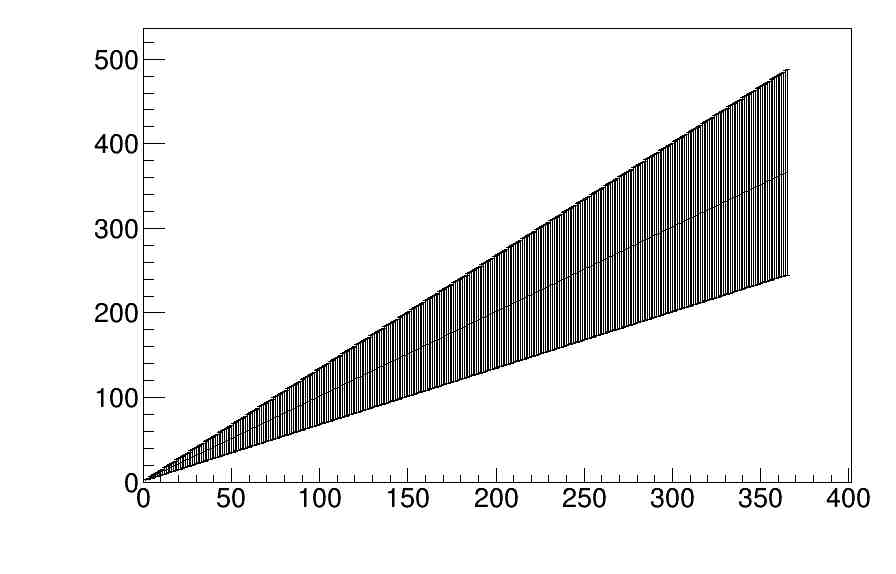
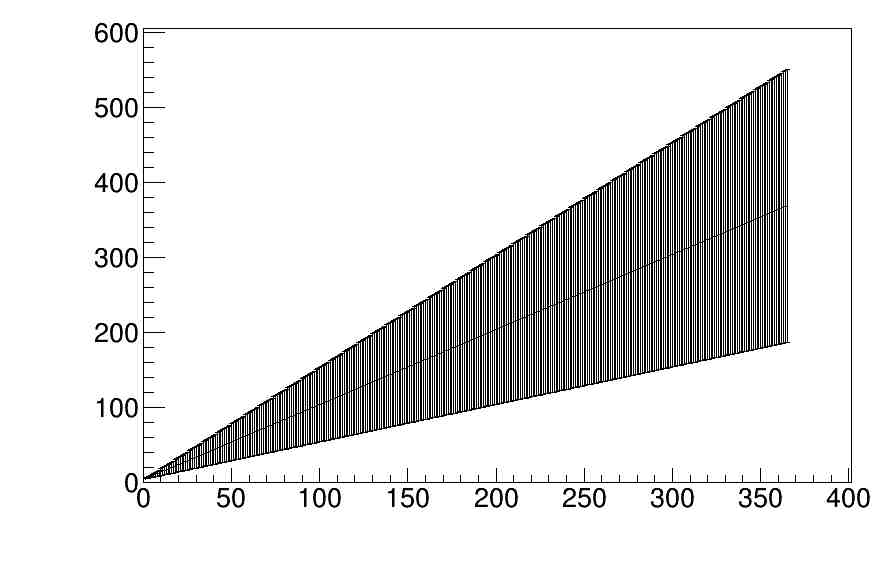
Redone LattDiff scrap idea of calling everyDay as i could not get it to work finaly works in a basic way

diff --git a/project/project.C b/project/project.C
@@ -8,38 +8,34 @@
 #include <vector>
 #include <TGraphErrors.h>
 
-Double_t * oneDay(string filePath, Int_t day, Int_t plot=1){
+Int_t n=365;
+Double_t outputMS[2];
+
+Double_t * oneDay(string filePath, Int_t day, Int_t plot=0){
 	
-	
-	
-	
-	
-	static Double_t result[2];
 	if (filePath == "test0"){
 		Double_t tday = (Double_t)day;
-		result[0]=tday+2.2;
-		result[1]=tday/3;
-		return result;
+		outputMS[0]=tday+2.2;
+		outputMS[1]=tday/3;
+		return outputMS;
 	}
-	if (filePath == "test1"){
+	else if (filePath == "test1"){
 		Double_t tday = (Double_t)day;
-		result[0]=-tday-2.2;
-		result[1]=tday/3;
-		return result;
+		outputMS[0]=-tday+8.2;
+		outputMS[1]=tday/3;
+		return outputMS;
 	}
-	if (filePath == "test2"){
+	else if (filePath == "test2"){
 		Double_t tday = (Double_t)day;
-		result[0]=tday+4.2;
-		result[1]=tday/2;
-		return result;
+		outputMS[0]=tday+4.2;
+		outputMS[1]=tday/2;
+		return outputMS;
 	}
 }
 
-Double_t * everyDay(string filePath="../clean_data/upsala_clean.dat", Int_t plot=1){
-	Int_t n=365;
+Double_t * everyDay(string filePath="../clean_data/upsala_clean.dat", Int_t plot=0){
 	Double_t *p;
 	Double_t daysMean[n],daysStaDev[n],days[n],zeros[n];
-	static Double_t store[365];
 	//vector<Double_t> daysMean;
 	//vector<Double_t> daysStaDev;
 	//vector<Int_t> days;
@@ -54,15 +50,16 @@ Double_t * everyDay(string filePath="../clean_data/upsala_clean.dat", Int_t plot
 		//daysStaDev.push_back(p[1]);
 		//days.push_back(i);
 		//zeros.push_back(0);
-		if (plot == 0){
-			store[i] = daysMean[i];
-			
+		/*
+		if (plot == 1){
+			outputBigM[i] = daysMean[i];
 		}
 		if (plot == 2){
-			store[i] = daysStaDev[i];
+			outputBigS[i] = daysStaDev[i];
 		}
+		*/
 	}
-	if (plot == 1){
+	if (plot == 0){
 		gStyle->SetOptStat(0);
 		gStyle->SetOptTitle(0);
 		gStyle->SetTitleSize(0.05, "x");
@@ -78,64 +75,81 @@ Double_t * everyDay(string filePath="../clean_data/upsala_clean.dat", Int_t plot
 		g1->Draw("AL");
 		c1->SaveAs("every_day_graph_one_location.jpg");
 	}
+	/*
 	if (plot == 0){
-		return store;
+		return outputBigM;
 	}	
+	if (plot == 2){
+		return outputBigS;
+	}
+	*/
 }
 
 
 void LattDiff(){
-	Int_t n=365;
 	Double_t days[365];
 	Double_t zeros[365];
 	/*
-	Double_t *lund, *visby, *upsala, *umea, *luleu;
-	lund = everyDay("../clean_data/lund_clean.dat",0);
-	visby = everyDay("../clean_data/visby_clean.dat",0);
-	upsala = everyDay("../clean_data/upsala_clean.dat",0);
-	umea = everyDay("../clean_data/umea_clean.dat",0);
-	luleu = everyDay("../clean_data/luleu_clean.dat",0);
-	Double_t lundM[n],lundS[n];
-	Double_t visbyM[n],visbyS[n];
-	Double_t upsalaM[n],upsalaS[n];
-	Double_t umeaM[n],umeaS[n];
-	Double_t luleuM[n],luleuS[n];
+	Double_t *lundM, *visbyM, *upsalaM, *umeaM, *luleuM;
+	lundM = everyDay("../clean_data/lund_clean.dat",0);
+	visbyM = everyDay("../clean_data/visby_clean.dat",0);
+	upsalaM = everyDay("../clean_data/upsala_clean.dat",0);
+	umeaM = everyDay("../clean_data/umea_clean.dat",0);
+	luleuM = everyDay("../clean_data/luleu_clean.dat",0);
+	
+	Double_t *lundS, *visbyS, *upsalaS, *umeaS, *luleuS;
+	lundS = everyDay("../clean_data/lund_clean.dat",0);
+	visbyS = everyDay("../clean_data/visby_clean.dat",0);
+	upsalaS = everyDay("../clean_data/upsala_clean.dat",0);
+	umeaS = everyDay("../clean_data/umea_clean.dat",0);
+	luleuS = everyDay("../clean_data/luleu_clean.dat",0);
+	
+	Double_t *test0M, *test0S, *test1M, *test1S, *test2M, *test2S;
+	test0M = everyDay("test0",1);
+	test0S = everyDay("test0",2);
+	test1M = everyDay("test1",1);
+	test1S = everyDay("test1",2);
+	test2M = everyDay("test2",1);
+	test2S = everyDay("test2",2);
 	*/
-	Double_t *test01, *test02, *test1, *test2;
-	test01 = everyDay("test0",0);
-	test02 = everyDay("test0",2);
-	test1 = everyDay("test1",0);
-	test2 = everyDay("test2",0);
-	Double_t test0M[365],test0S[365],test1M[n],test1S[n],test2M[n],test2S[n];
-	for (Int_t i=0; i < 364; i++){
+	Double_t *t0, *t1, *t2;
+	Double_t t0daysMean[n],t0daysStaDev[n],t1daysMean[n],t1daysStaDev[n];
+	for(Int_t i = 0; i < n; i++){
 		days[i]=i+1;
-		zeros[i]=0;		
-		
-		test0M[i] = test01[i];
-		test0S[i] = test02[i];
-		/*
-		test1M[i] = test1[0][i];
-		test1S[i] = test1[1][i];
-		test2M[i] = test2[0][i];
-		test2S[i] = test2[1][i];
-		
-		lundM[i] = lund[0][i];
-		lundS[i] = lund[1][i];
-		visbyM[i] = visby[0][i];
-		visbyS[i] = visby[1][i];
-		upsalaM[i] = upsala[0][i];
-		upsalaS[i] = upsala[1][i];
-		umeaM[i] = umea[0][i];
-		umeaS[i] = umea[1][i];
-		luleuM[i] = luleu[0][i];
-		luleuS[i] = luleu[1][i];
-		*/
+		zeros[i]=0;
+		t0 = oneDay("test0",i,0);
+		t0daysMean[i]=t0[0];
+		t0daysStaDev[i]=t0[1];
+		t1 = oneDay("test1",i,0);
+		t1daysMean[i]=t1[0];
+		t1daysStaDev[i]=t1[1];
 	}
-	//TCanvas* c2 = new TCanvas("c2", "every day graph multiple locations", 900, 600);
-	TGraphErrors* t0 = new TGraphErrors(n,days,test0M,zeros,test0S);
-	t0->Draw("AL");
-	//TGraphErrors* t1 = new TGraphErrors(n,days,test1M,zeros,test1S);
-	//t1->Draw("L");
+	
+	
+	
+	
+	for (Int_t i=0; i < 365; i++){
+		cout << t0daysMean[i] << endl;
+		cout << t1daysMean[i] << endl;
+		
+	}
+	TCanvas* c2 = new TCanvas("c2", "every day graph multiple locations", 900, 600);
+	gStyle->SetOptStat(0);
+	gStyle->SetOptTitle(0);
+	gStyle->SetTitleSize(0.05, "x");
+	gStyle->SetTitleSize(0.05, "y");
+	gStyle->SetLabelSize(0.05, "x");
+	gStyle->SetLabelSize(0.05, "y");
+	gStyle->SetPadTopMargin(0.05);
+	gStyle->SetPadRightMargin(0.05);
+	gStyle->SetPadBottomMargin(0.16);
+	gStyle->SetPadLeftMargin(0.16);
+	TGraphErrors* t0p = new TGraphErrors(n,days,t0daysMean,zeros,t0daysStaDev);
+	t0p->SetMaximum(400);
+	t0p->SetMinimum(-400);
+	t0p->Draw("AL");
+	TGraphErrors* t1p = new TGraphErrors(n,days,t1daysMean,zeros,t1daysStaDev);
+	t1p->Draw("L");
 	//TGraphErrors* t2 = new TGraphErrors(n,days,test2M,zeros,test2S);
 	//t2->Draw("L");
 	
@@ -143,6 +157,7 @@ void LattDiff(){
 	
 	
 	
-	//c2->SaveAs("every_day_graph_multiple_locations.jpg");
+	c2->SaveAs("every_day_graph_multiple_locations.jpg");
 
 }
+
